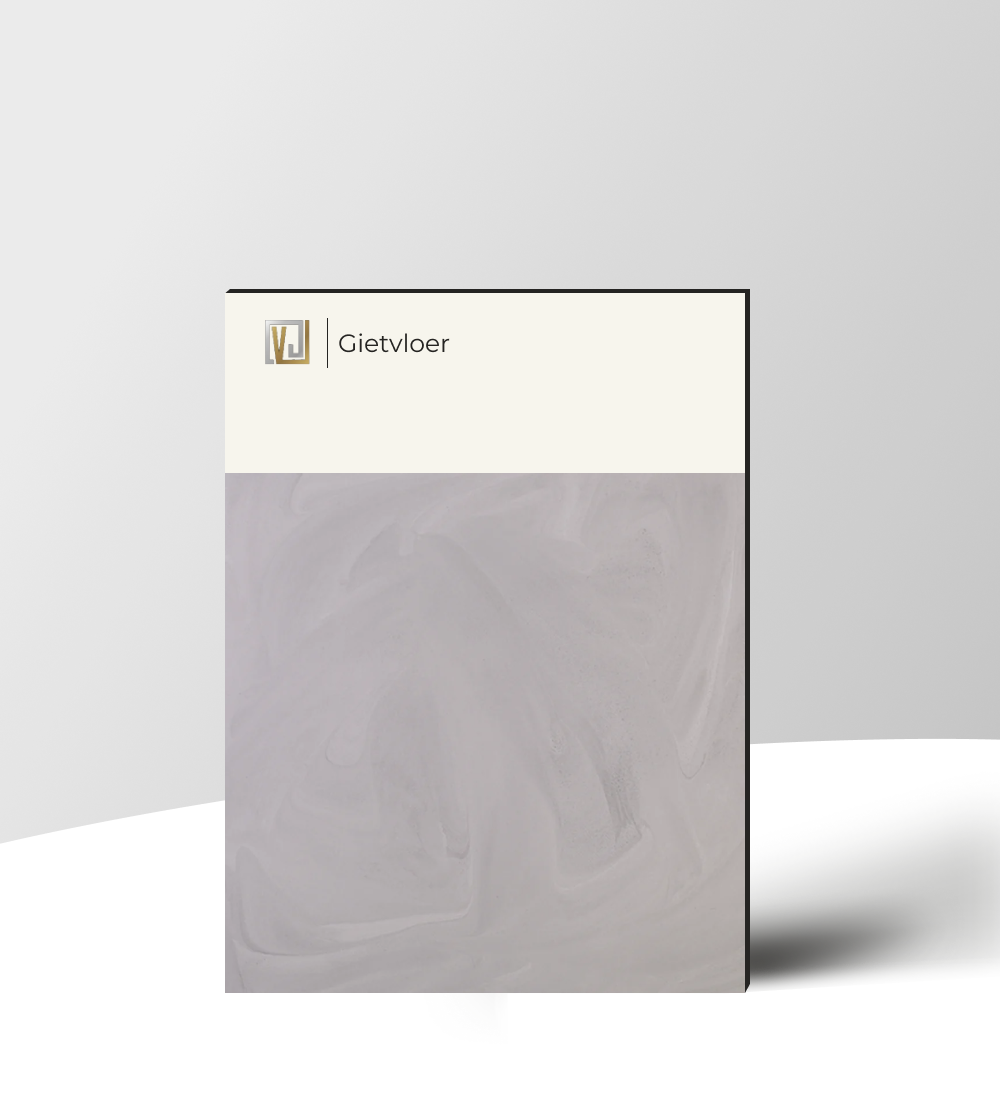
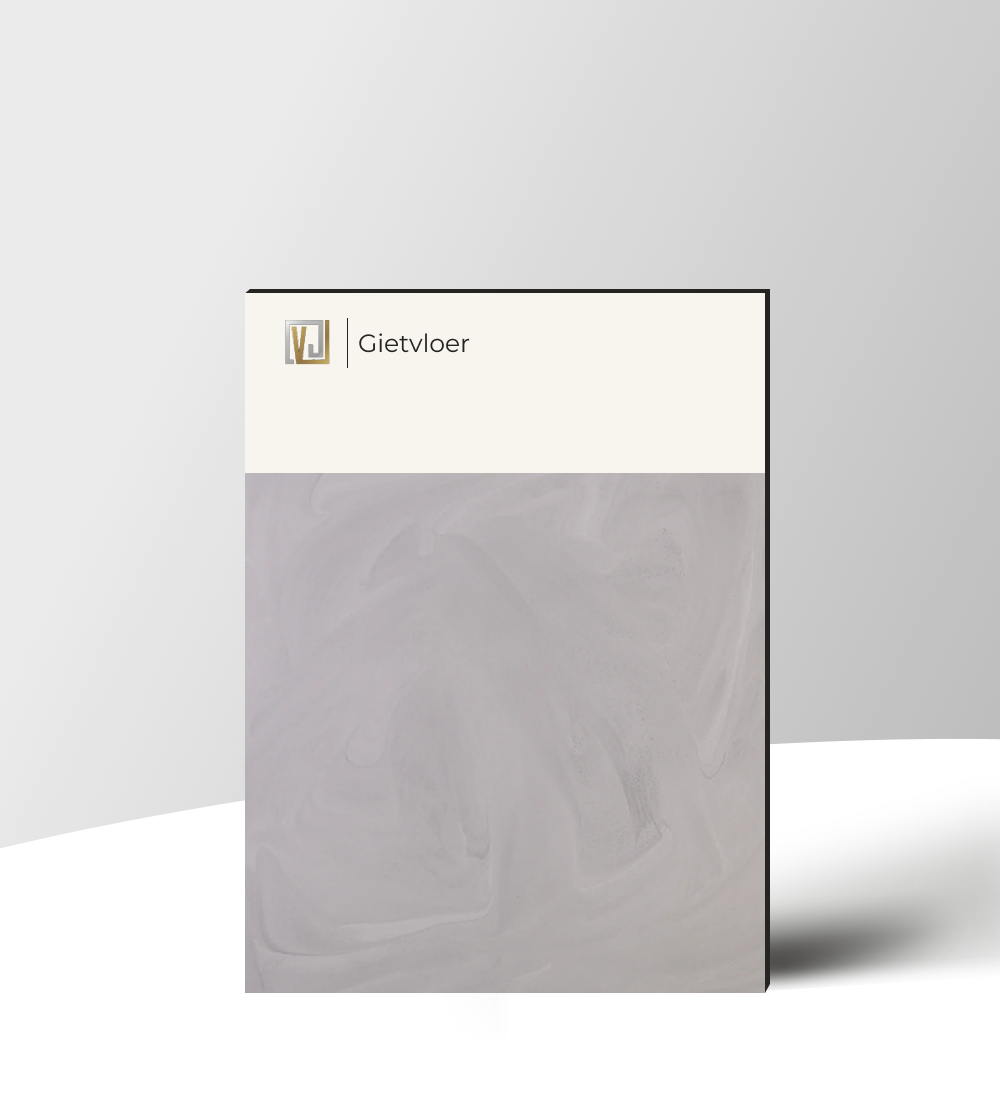
new image (centered) and capital letter

Changed region(s): [[0.744, 0.2473, 0.775, 0.9273], [0.217, 0.4327, 0.248, 0.9273], [0.248, 0.2782, 0.465, 0.34]]

diff --git a/process-batch.js b/process-batch.js
@@ -11,12 +11,12 @@ const __dirname = path.dirname(__filename);
 const TEMPLATE_PATH = path.join(__dirname, "template.png");
 
 // Vaste plek van het vierkant in template.png
-const SQUARE_LEFT = 225;   // x
+const SQUARE_LEFT = 245;   // x
 const SQUARE_TOP = 473;    // y
 const SQUARE_SIZE = 520;   // breedte en hoogte
 // Tekst instellingen
-const TEXT_LEFT = 260;      // x positie van de tekstlaag
-const TEXT_TOP = 400;      // y positie van de tekstlaag
+const TEXT_LEFT = 280;      // x positie van de tekstlaag
+const TEXT_TOP = 390;      // y positie van de tekstlaag
 const TEXT_WIDTH = 450;    // breedte van het tekstvak
 const TEXT_HEIGHT = 70;    // hoogte van het tekstvak
 
@@ -75,6 +75,10 @@ if (!fs.existsSync(FONT_PATH)) {
   throw new Error(`Fontbestand niet gevonden: ${FONT_PATH}`);
 }
 
+function capitalizeFirstLetter(text) {
+  if (!text) return text;
+  return text.charAt(0).toUpperCase() + text.slice(1);
+}
 
 function makeTextSvg(text) {
   const safe = escapeXml(text);
@@ -139,8 +143,10 @@ async function main() {
           .resize(SQUARE_SIZE, SQUARE_SIZE, { fit: "cover", position: "centre" })
           .toBuffer();
 
-        const label = item.colorName || item.outputName || `kleur_${idx + 1}`;
+        const rawLabel = item.colorName || item.outputName || `kleur_${idx + 1}`;
+        const label = capitalizeFirstLetter(rawLabel);
         const labelSvg = makeTextSvg(label);
+
 
         let base = sharp(templateBuf).composite([
           { input: square, left: SQUARE_LEFT, top: SQUARE_TOP },
